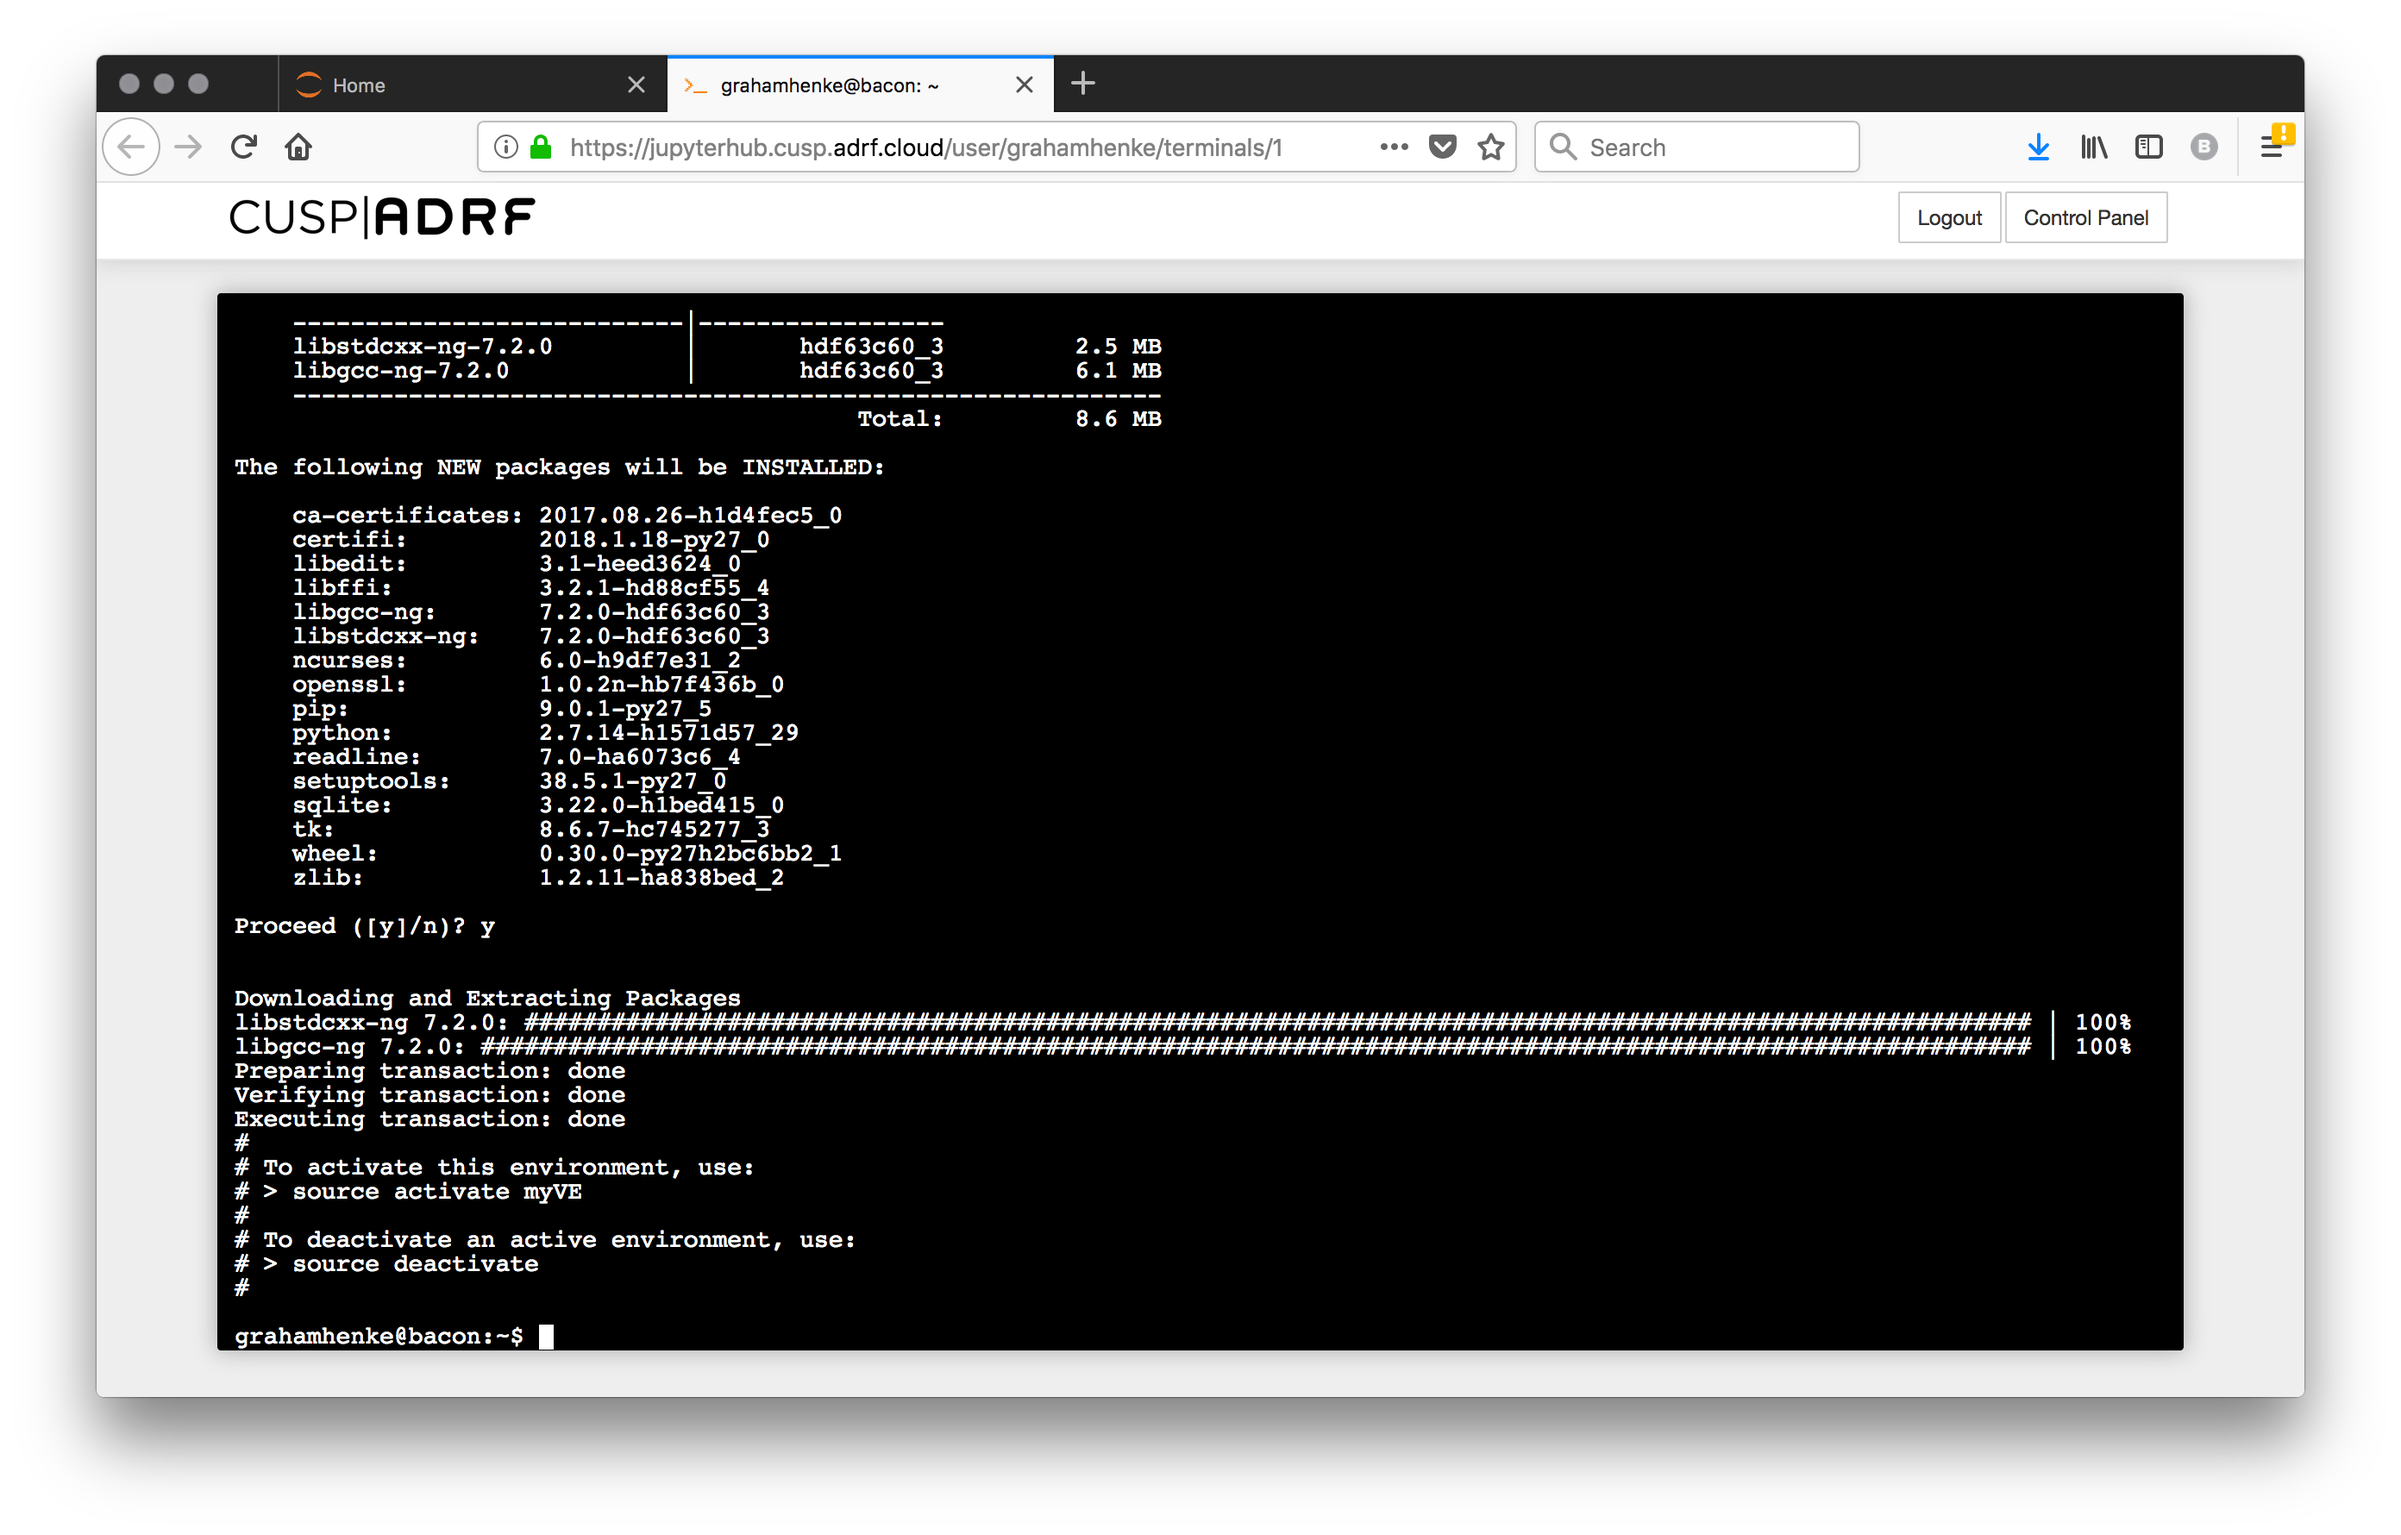
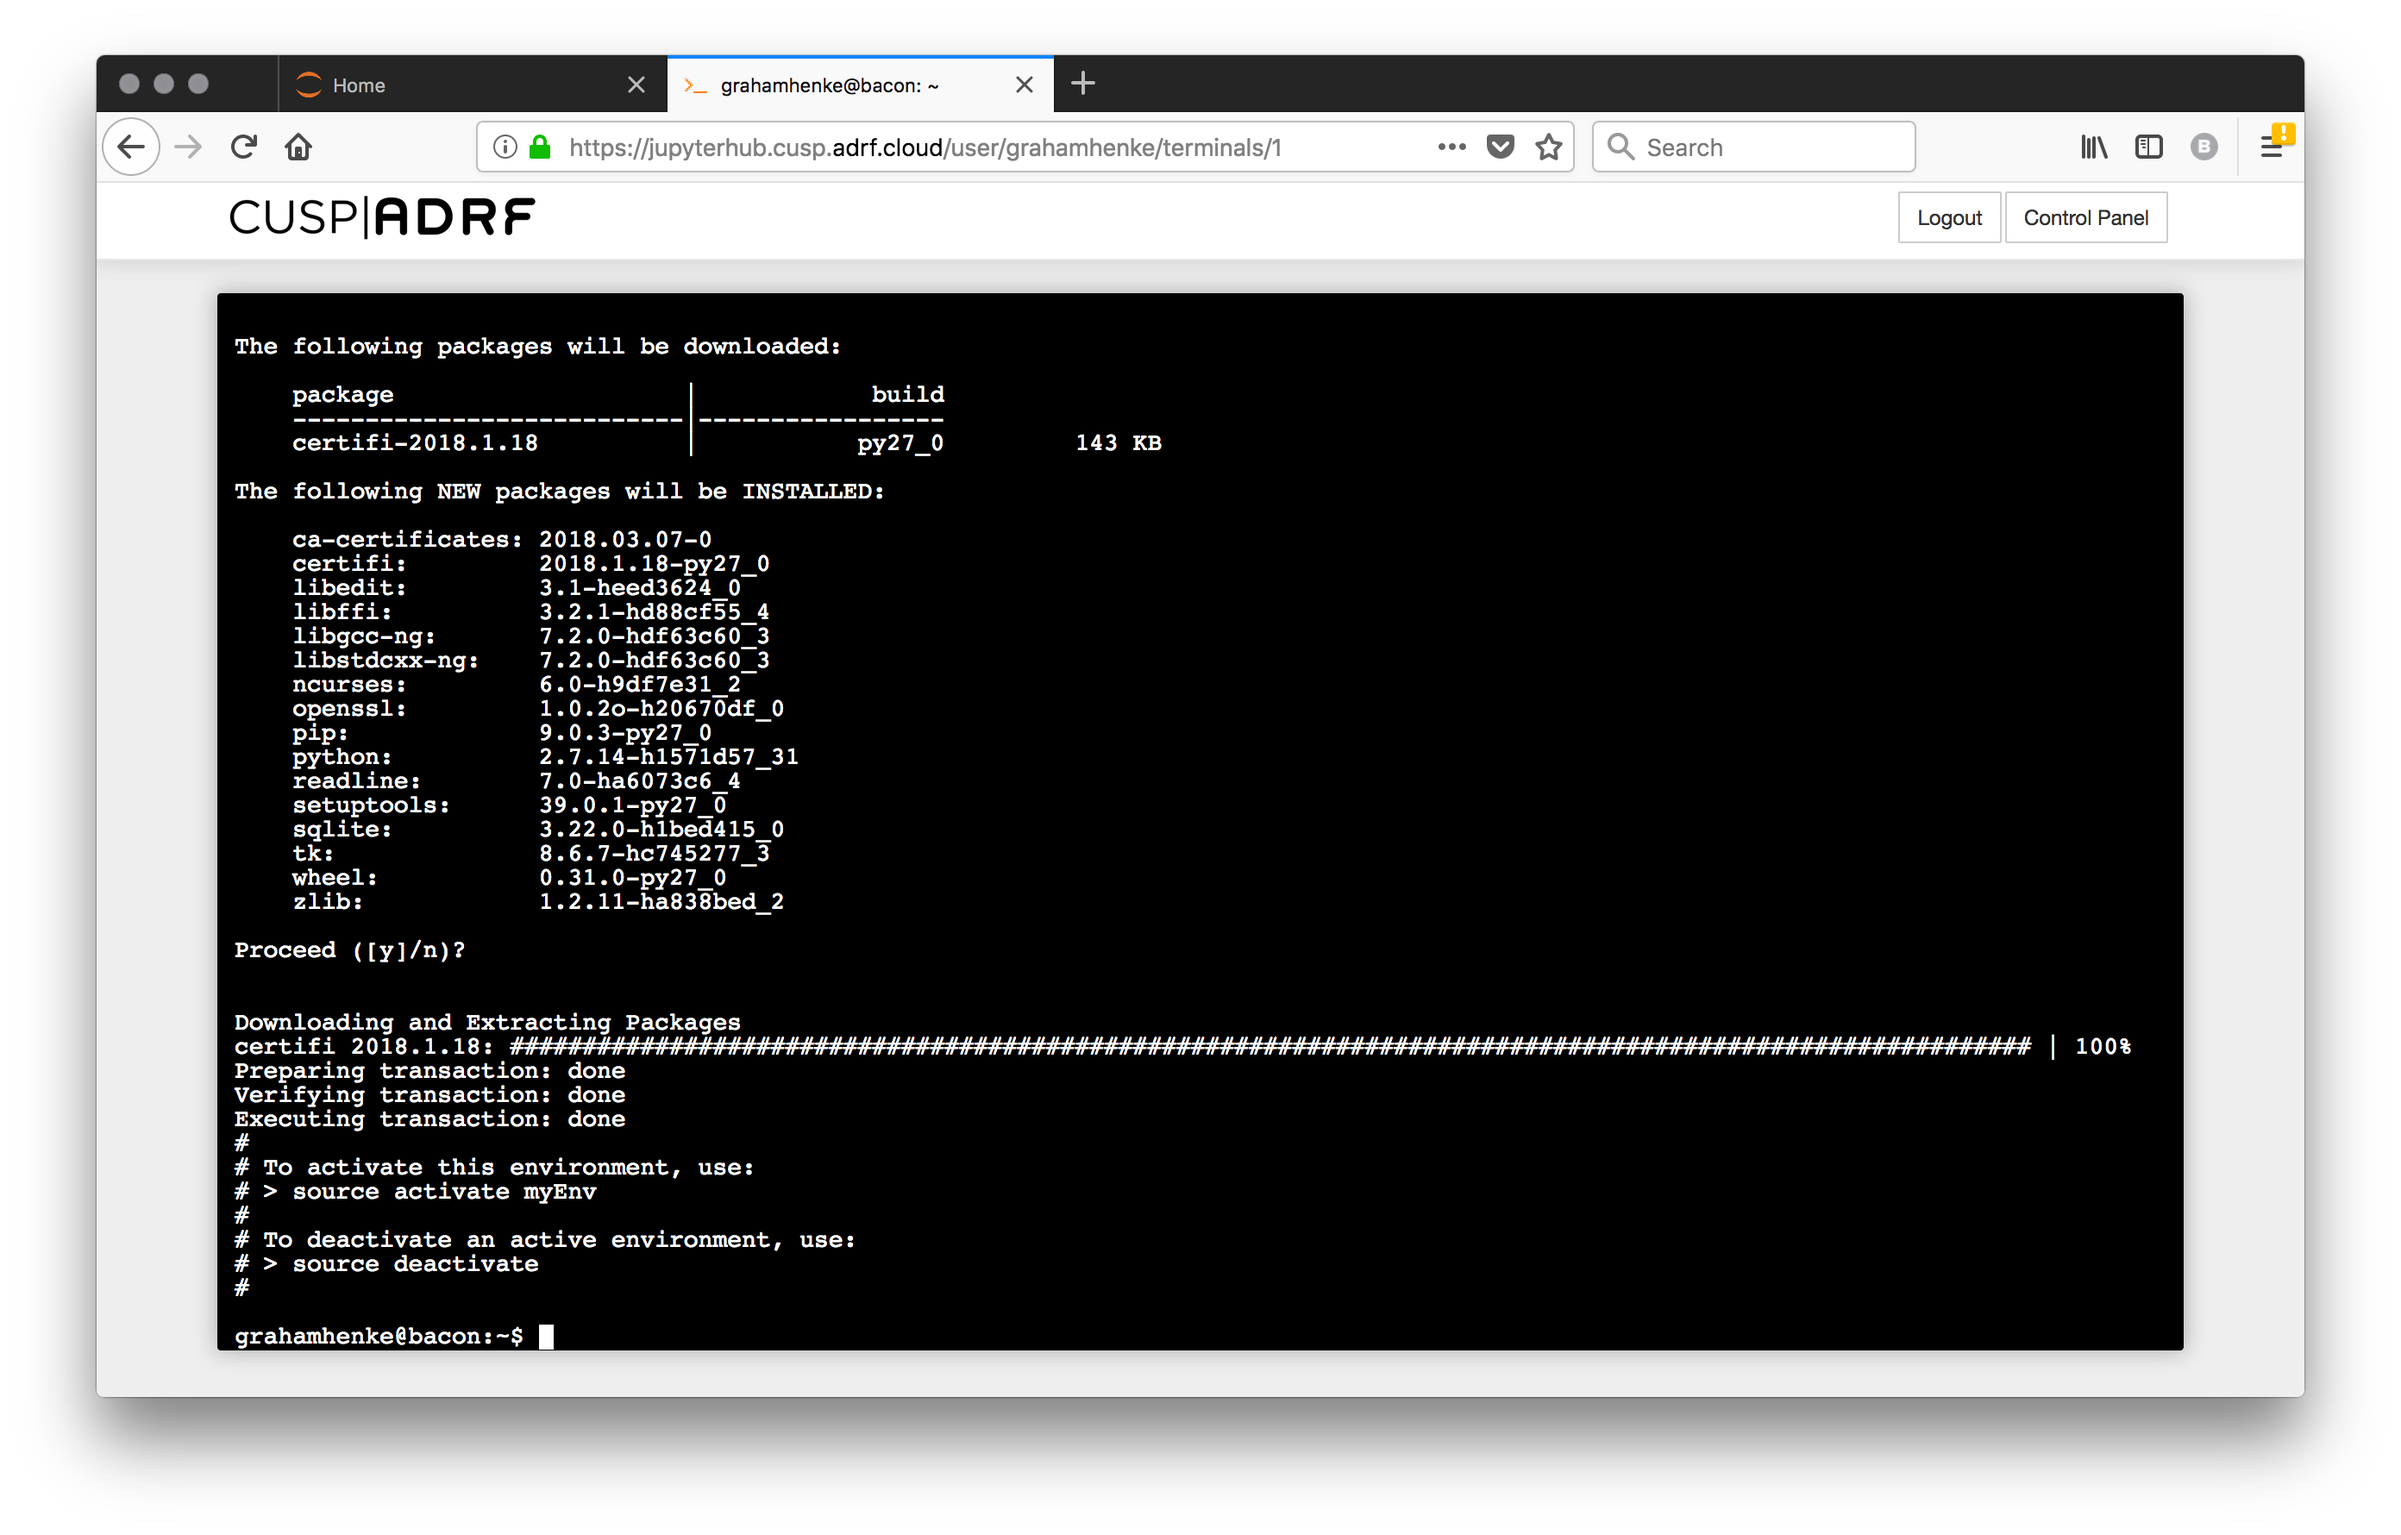
Updated guides

diff --git a/guides/virtualenvironments/ve-python.html b/guides/virtualenvironments/ve-python.html
@@ -12,26 +12,27 @@ steps:
   - step-image: ve_python_01.png
   - step-hr: hr
   - step-heading: 2. Create virtual environment
-  - step-instruction: In the Terminal, enter the command below to create a virtual environment. In this example, <code>myVE</code> is the name used for the virtual environment, but you may name this whatever you'd like.
+  - step-instruction: In the Terminal, enter the command below to create a virtual environment. In this example, <code>myEnv</code> is the name used for the virtual environment, but you may name this whatever you'd like.
   - step-code:
       lang: shell
-      code: conda create -n myVE python=2.7
+      code: conda create -n myEnv python=2.7
   - step-instruction: Press return when asked to proceed. All packages needed by the virtual environment will be downloaded and installed.
   - step-image: ve_python_02.png
   - step-hr: hr
   - step-heading: 3. Activate virtual environment
-  - step-instruction: Run <code>source activate myVE</code> to activate your virtual environment. Again, you may have used a different name, so substitute as appropriate. You should now see a prompt with the name of your virtual environment in parenthesis as shown.
+  - step-instruction: Run <code>source activate myEnv</code> to activate your virtual environment. Again, you may have used a different name, so substitute as appropriate. You should now see a prompt with the name of your virtual environment in parenthesis as shown.
   - step-code:
       lang: shell
       code: |
-        grahamhenke@bacon:~$ source activate myVE
-        (myVE) grahamhenke@bacon:~$
+        grahamhenke@bacon:~$ source activate myEnv
+        (myEnv) grahamhenke@bacon:~$
   - step-hr: hr
   - step-heading: 4. Install packages
-  - step-instruction: "Now that you are in your virtual environment, you may install packages using <code>conda install</code>. For example, to install the <code>requests</code> package, run:"
+  - step-instruction: "Now that you are in your virtual environment, you may install packages using <code>conda install</code> or <code>pip install</code>. For example, to install the <code>requests</code> package, run:"
   - step-code:
       lang: shell
       code: conda install requests
+  - step-note: "Note: We <strong>highly</strong> recommend trying <code>conda install</code> first, as it installs low level dependencies that some packages (such as tensorflow) need. If this does not work, then use <code>pip install</code>."
   - step-hr: hr
   - step-heading: 5. Install ipykernel
   - step-instruction: "To use your virtual environment and the packages installed in it, you will need to create an environment kernel. To do this, you first need to install <code>ipykernel</code> by running the following:"
@@ -43,11 +44,11 @@ steps:
   - step-instruction: "Now create the kernel for your environment by running:"
   - step-code:
       lang: shell
-      code: python -m ipykernel install --user --name myKernel --display-name myKernel
-  - step-note: "Note: This example uses 'myKernel' as the name and display-name, but you may choose a more meaningful name."
+      code: python -m ipykernel install --user --name myEnv --display-name myEnv
+  - step-note: "Note: Neither the name or display-name have to be the same as your virtual environment name, but it is recommended to avoid confusion."
   - step-hr: hr
   - step-heading: 7. Open a notebook with the kernel
-  - step-instruction: Navigate back to the <strong>Home</strong> tab. Make sure to first <strong>refresh</strong> the page. Next, click the <strong>New</strong> button and select the name of your kernel, which is <strong>myKernel</strong> in this example.
+  - step-instruction: Navigate back to the <strong>Home</strong> tab. Make sure to first <strong>refresh</strong> the page. Next, click the <strong>New</strong> button and select the name of your kernel, which is <strong>myEnv</strong> in this example.
   - step-image: ve_python_03.png
   - step-hr: hr
   - step-heading: 8. Import packages

diff --git a/guides/virtualenvironments/ve-packages.html b/guides/virtualenvironments/ve-packages.html
@@ -1,0 +1,36 @@
+---
+layout: guide
+permalink: ve-packages
+category: Virtual Environments
+guide-title: Install Additional Packages
+guide-desc: <strong>Prerequisite:</strong> You must have an existing virtual environment. Instructions for creating one can be found <a href="/ve-python" target="_blank">here</a>.<br><br>The steps below will walk you through installing additional packages in an existing virtual environment.
+guide-image: ve_packages_04.png
+steps:
+  - step-hr: hr
+  - step-heading: 1. Open a Terminal
+  - step-instruction: If you're not already logged in, follow the steps found <a href="/login" target="_blank">here</a>. In the upper-right corner, click the <strong>New</strong> button and select <strong>Terminal</strong>.
+  - step-image: ve_packages_01.png
+  - step-hr: hr
+  - step-heading: 2. Activate your virtual environment
+  - step-instruction: Run <code>source activate &lt;name_of_ve&gt;</code> where <strong>&lt;name_of_ve&gt;</strong> is the name of your virtual environment. If you have forgetten and you need to see a list, you can run <code>conda env list</code>.
+  - step-code:
+      lang: shell
+      code: |
+        grahamhenke@bacon:~$ source activate myEnv
+        (myEnv) grahamhenke@bacon:~$
+  - step-hr: hr
+  - step-heading: 3. Install packages
+  - step-instruction: "Now that you are in your virtual environment, you may install packages using <code>conda install</code> or <code>pip install</code>. For example, to install the <code>requests</code> package, run:"
+  - step-code:
+      lang: shell
+      code: conda install requests
+  - step-note: "Note: We <strong>highly</strong> recommend trying <code>conda install</code> first, as it installs low level dependencies that some packages (such as tensorflow) need. If this does not work, then use <code>pip install</code>."
+  - step-hr: hr
+  - step-heading: 4. Open a notebook with the kernel
+  - step-instruction: Navigate back to the <strong>Home</strong> tab. Next, click the <strong>New</strong> button and select the name of your kernel, which is <strong>myEnv</strong> in this example.
+  - step-image: ve_packages_03.png
+  - step-hr: hr
+  - step-heading: 5. Import packages
+  - step-instruction: You can now import and use packages from your kernel. Notice the <code>requests</code> package imports successfully.
+  - step-image: ve_packages_04.png
+---
